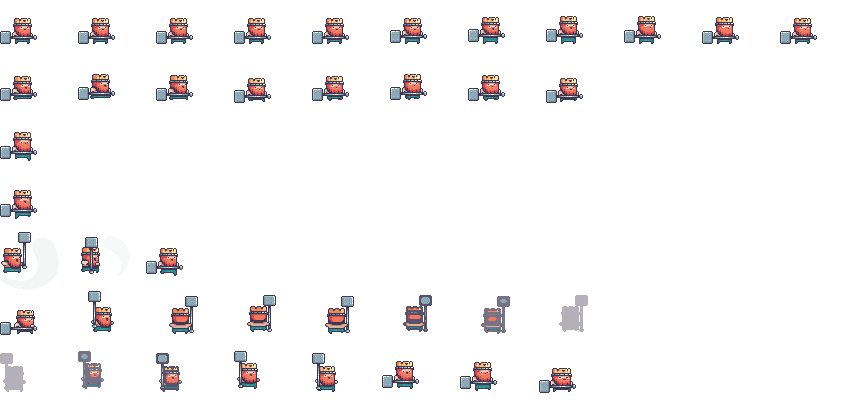
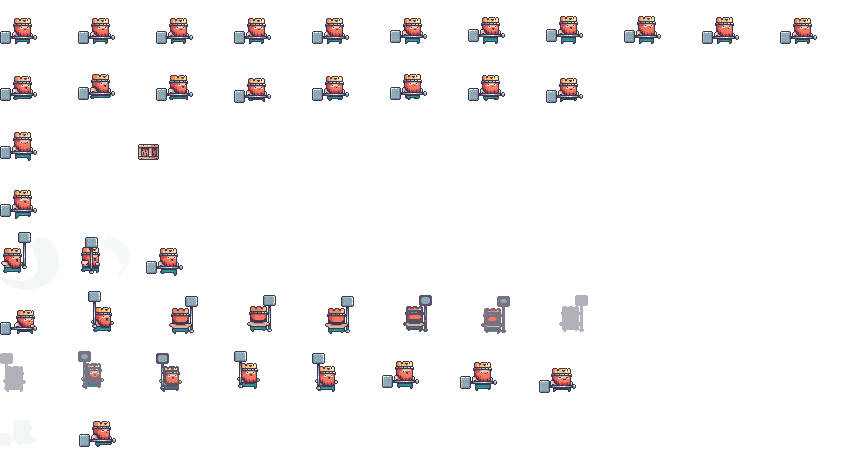
added player hit animation

diff --git a/PixelDash/Player.cpp b/PixelDash/Player.cpp
@@ -12,7 +12,7 @@ Player::Player(olc::PixelGameEngine& pge, Level& lvl) : pge(pge), lvl(lvl), eLif
 
 	fPlayerVelX = 0.0f;
 	fPlayerVelY = 0.0f;
-	eGraphicState = AnimationState::IDLE;
+	eGraphicState = AnimationState::HIT;
 	bPlayerOnGround = false;
 	bIsAttacking = false;
 	bForceAnimation = false;
@@ -25,7 +25,8 @@ Player::Player(olc::PixelGameEngine& pge, Level& lvl) : pge(pge), lvl(lvl), eLif
 		{AnimationState::JUMP, {1, 37, 28, 0.1f, 4, 41, 174, 16}},
 		{AnimationState::ATTACK, {3, 59, 58, 0.1f, -11, 12, 232, 0}},
 		{AnimationState::DOOR_IN,  {8, 39, 42, 0.1f, -11, 41, 290, 0}},
-		{AnimationState::DOOR_OUT,  {8, 41, 42, 0.1f, -11, 35, 348, 0}}
+		{AnimationState::DOOR_OUT,  {8, 41, 42, 0.1f, -11, 35, 348, 0}},
+		{AnimationState::HIT,  {2, 37, 42, 0.1f, -11, 41, 406, 0}}
 	};
 
 	fAttackOffsetCorrection = animations[AnimationState::ATTACK].frameWidth - fWidth;
@@ -168,6 +169,11 @@ void Player::handleContinousAnimation() {
 }
 
 void Player::hit() {
+	eGraphicState = AnimationState::HIT;
+	setPlayerIsAttacking(true);
+	setForceAnimation(true);
+	setGraphicCounter(0);  // Reset counter to start the attack animation from frame 0
+	setGraphicTimer(0.0f); // Reset timer for consistent animation speed
 	lvl.getHUD()->decrLife();
 }
 
